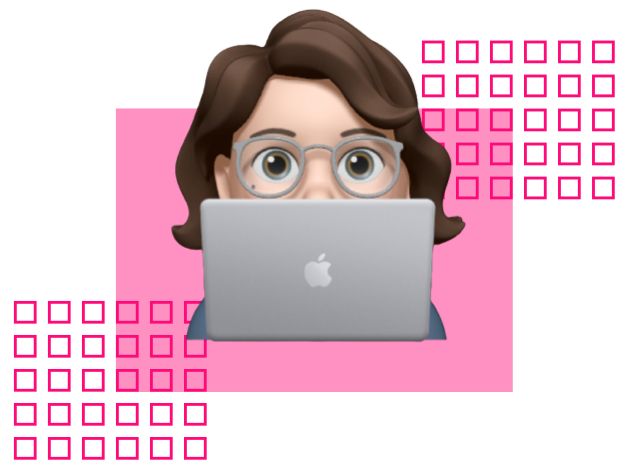
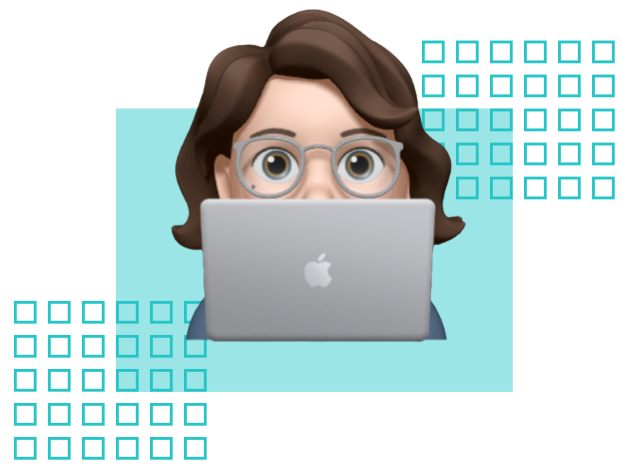
adjust color scheme

Changed region(s): [[0.0, 0.0597, 0.9968, 0.9851]]

diff --git a/src/pages/About/index.js b/src/pages/About/index.js
@@ -11,9 +11,9 @@ const About = ({innerRef}) => {
             </div>
             <div className="aboutInfo wrapper">
                 <div className="aboutText">
-                    <p>After witnessing the impact of technology on vital industries such as healthcare during my time as a Medical Editor, I decided to take the leap to pursue a career in software engineering.</p>
-                    <p>I enrolled in a full-stack bootcamp with La Fosse Academy and put my problem-solving skills to work. Having graduated from this rigorous programme, I can say that applying to a coding bootcamp has been the best decision I have made. I love to learn new technologies and try them out on my own projects.</p>
-                    <p>Besides my passion for coding, I love to travel to new countries and explore the culture, hike in the mountains, and play flag American football.</p>
+                    <p>As a full-stack developer with a background in pharmacology and medical editing, I have a unique blend of scientific expertise and technical skills. My strong foundation in problem-solving and analytical thinking aided my successful career transition to pursue my passion for coding.</p>
+                    <p>Having completed a comprehensive full-stack developer bootcamp, I am well-versed in various front- and back-end programming languages, frameworks, and technologies.</p> 
+                    <p>As I continue my journey through the tech industry, I am excited to take on roles in which I can contribute my enthusiasm, curiosity, strong work ethic, and ability to quickly adapt and learn.</p>
                 </div>
                 <div className="aboutImgDiv">
                     <img src={headshot} className="aboutImg" alt="" />

diff --git a/src/layout/NavBar/style.css b/src/layout/NavBar/style.css
@@ -3,7 +3,7 @@ header {
     top: 0;
     width: 100%;
     display: flex;
-    background-color: #041129;
+    background-color: var(--dark-blue);
     font-size: 16px;
     z-index: 1;
     justify-content: right;
@@ -62,7 +62,7 @@ header {
 .sideModal {
     position: absolute;
     height: 100vh;
-    background-color: #081e48;
+    background-color: var(--dark-blue);
     width: 70%;
     z-index: 9999;
     display: none;
@@ -111,9 +111,8 @@ header {
 .navIcon {
     margin: 15px;
     padding: 7.5px 10px;
-    background-color: #081e48;
-    border: 3px solid #0AC3FF;
-    background-color: #041129;
+    background-color: var(--dark-blue);
+    border: none;
     outline: none;
     height: 40px;
 }
@@ -133,7 +132,7 @@ header {
 
 #sideBarResume {
     color: var(--accent-color);
-    background-color: #081e48;
+    background-color: var(--dark-blue);
     outline: none;
     padding: 7.5px 10px;
     font-size: 18px;
@@ -274,7 +273,7 @@ header {
 
     #topNavResume {
         color: var(--accent-color);
-        background-color: #041129;
+        background-color: var(--dark-blue);
         outline: none;
         padding: 10px 20px;
         font-size: 0.9em;

diff --git a/src/pages/About/style.css b/src/pages/About/style.css
@@ -11,8 +11,8 @@
 }
 
 .aboutImg {
-    border-top: 8px solid var(--accent-color);
-    border-left: 8px solid var(--accent-color);
+    border-top: 8px solid var(--light-blue);
+    border-left: 8px solid var(--light-blue);
     padding-left: 20px;
     padding-top: 20px;
     width: 80%;
@@ -34,22 +34,18 @@
 }
 
 .aboutText > p {
-    color: #D9F6FF;
     margin-bottom: 20px;
     margin-left: 30px;
     font-size: 18px;
 }
 
-.bold {
-    color: #0A99FF;
-}
 @media (min-width: 320px){
     .aboutImgDiv {
         margin-left: 70px;
     }
     .aboutImg {
-        border-top: 10px solid var(--accent-color);
-        border-left: 10px solid var(--accent-color);
+        border-top: 10px solid var(--light-blue);
+        border-left: 10px solid var(--light-blue);
     }
     .aboutInfo {
         max-width: 90%;

diff --git a/src/App.css b/src/App.css
@@ -2,18 +2,25 @@
   margin: 0;
   padding: 0;
   box-sizing: border-box;
-  color: #0AC3FF;
+  color: var(--white);
 }
+
 :root {
-  --accent-color: #FF0A78;
+  --accent-color: #E91E63;
+  --dark-blue: #222931;
+  --darkish-blue: #313338;
+  --light-blue: #26C5C7;
+  --white: #F2F2F2;
 }
+
 body::-webkit-scrollbar {
   display: none;
 }
 
 body {
   -ms-overflow-style: none;  /* IE and Edge */
-  scrollbar-width: none;  /* Firefox */background-color: #041129;
+  scrollbar-width: none;  /* Firefox */
+  background-color: var(--dark-blue);
 }
 
 .body {
@@ -92,12 +99,13 @@ body {
 }
 
 .introText > h2 {
-  color: #0A99FF;
+  color: var(--white);
   font-size: 1.25rem;
 }
 
 .introText > h1 {
   font-size: 1.75rem;
+  color: var(--light-blue);
 }
 
 .introText {

diff --git a/src/components/Project/style.css b/src/components/Project/style.css
@@ -18,7 +18,6 @@
     text-align: right;
 }
 .appType {
-    color: #D9F6FF;
     font-weight: normal;
     margin-bottom: 5px;
 }
@@ -27,7 +26,7 @@
     margin-bottom: 5px;
 }
 .projectSummary {
-    background-color: #005592;
+    background-color: var(--darkish-blue);
     padding: 15px;
 }
 .projectImg {
@@ -39,9 +38,6 @@
     width: 100%;
     height: 100%;
     z-index: -5;
-}
-.projectSummary > p {
-    color: #D9F6FF;
 }
 
 .projectLinks {
@@ -63,7 +59,6 @@
 }
 .projectTech > li {
     padding: 10px 0px 10px 20px;
-    color: #D9F6FF;
     font-size: 12px;
 }
 .linkIcon {

diff --git a/src/pages/Skills/style.css b/src/pages/Skills/style.css
@@ -43,7 +43,7 @@
     justify-items: center; 
 }
 .skillsIcons > div {
-    background-color: #014372;
+    background-color: var(--darkish-blue);
     text-align: center;
     font-size: 10px;
     box-shadow: rgba(3, 9, 22, 0.5) 0px 2.5px 15px;
